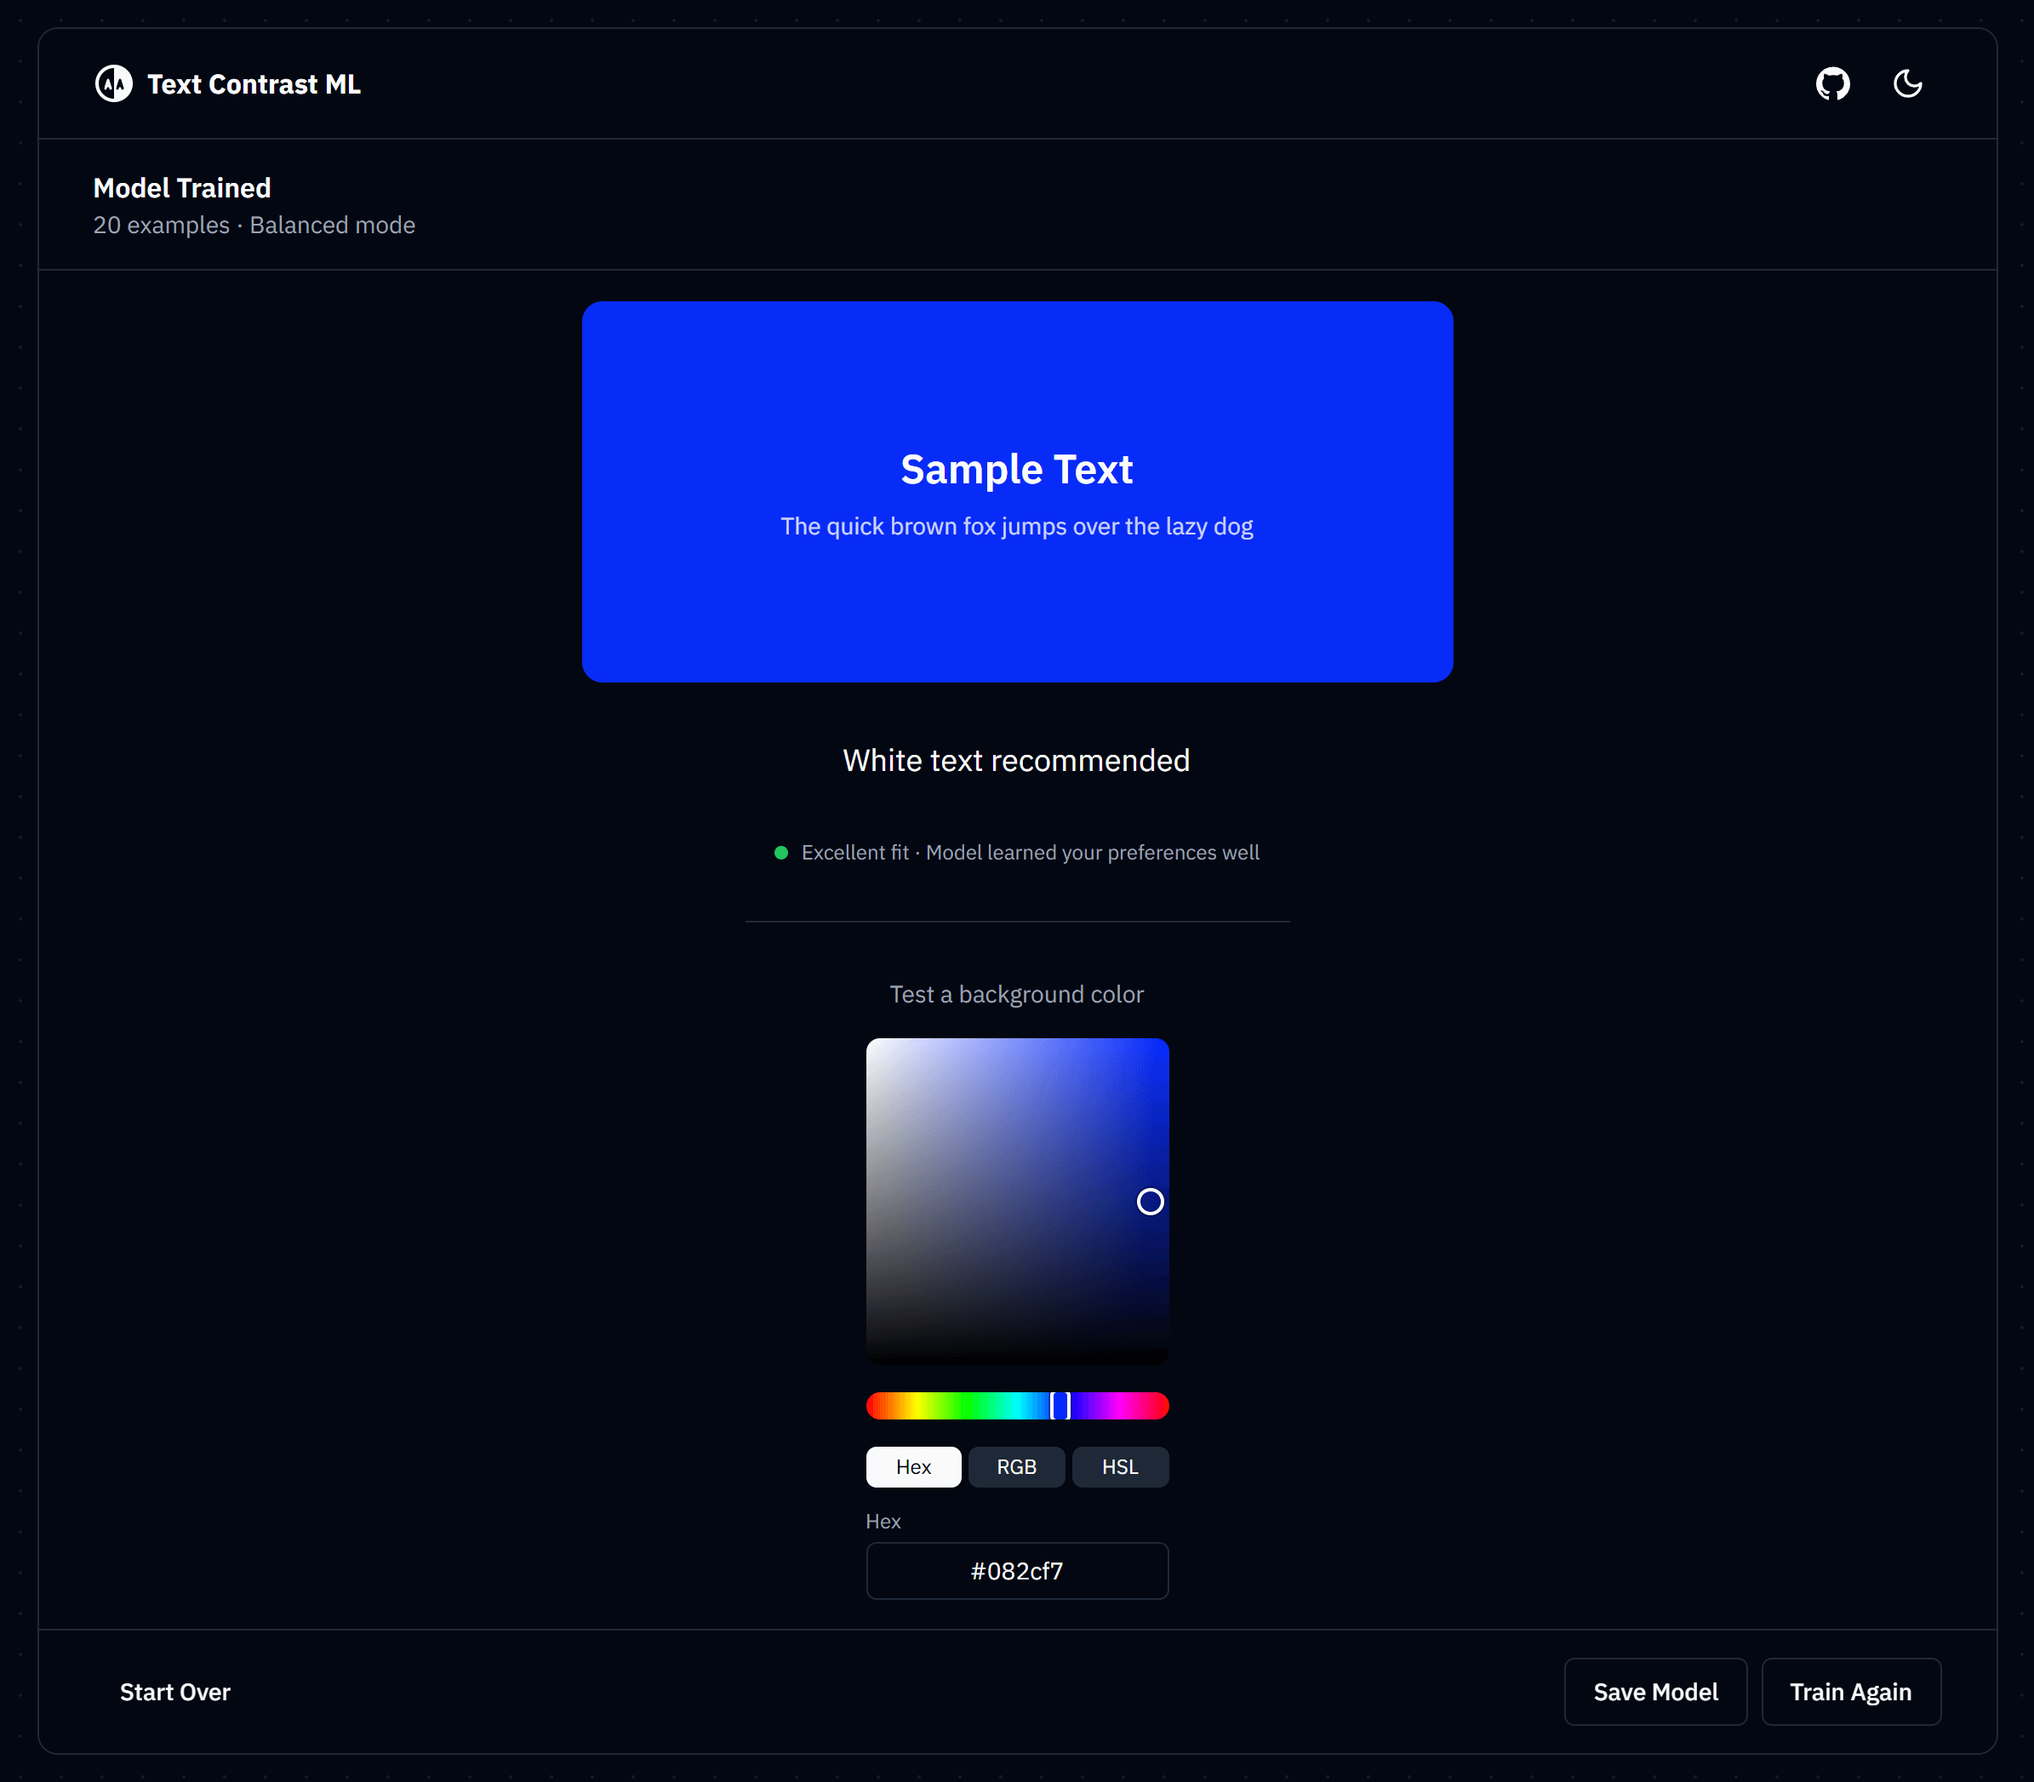
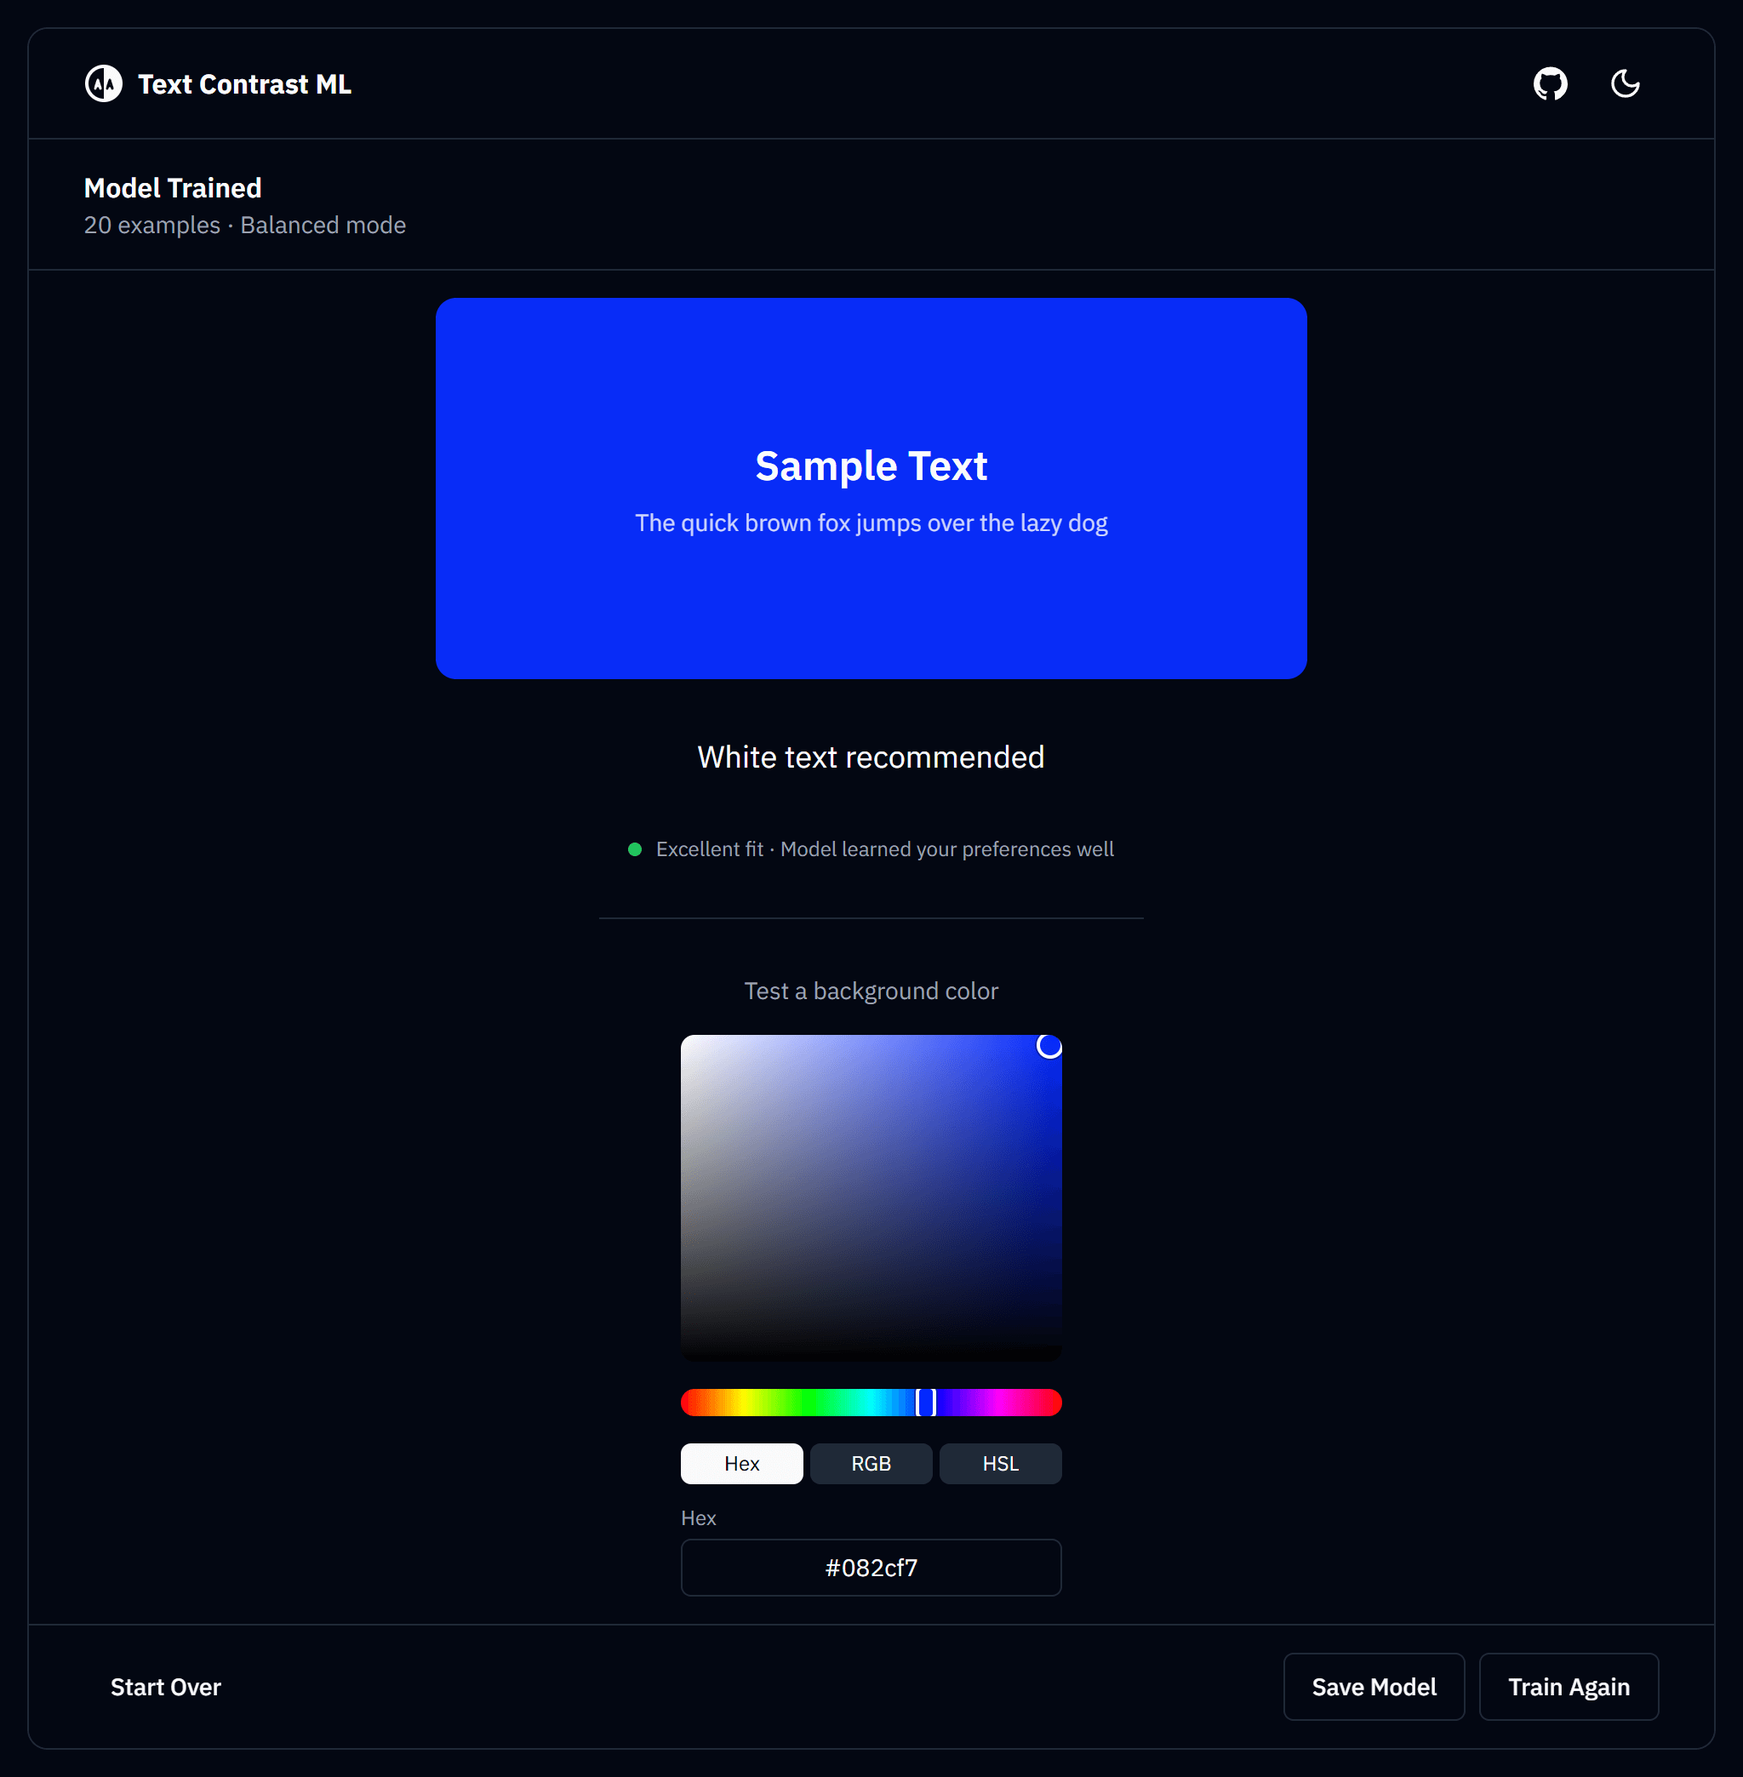
docs: move preview screenshots to `docs`

diff --git a/README.md b/README.md
@@ -23,7 +23,7 @@ Train a neural network to predict optimal text color for any background. Runs en
 Check out the live site at **[nathan-abela.github.io/Text-Contrast-ML](https://nathan-abela.github.io/Text-Contrast-ML)**
 
 <p align="center">
-    <img src="public/preview-prediction.png" width="700" alt="Text Contrast ML Preview"/>
+    <img src="docs/preview-prediction.png" width="700" alt="Text Contrast ML Preview"/>
 </p>
 
 ## Features
